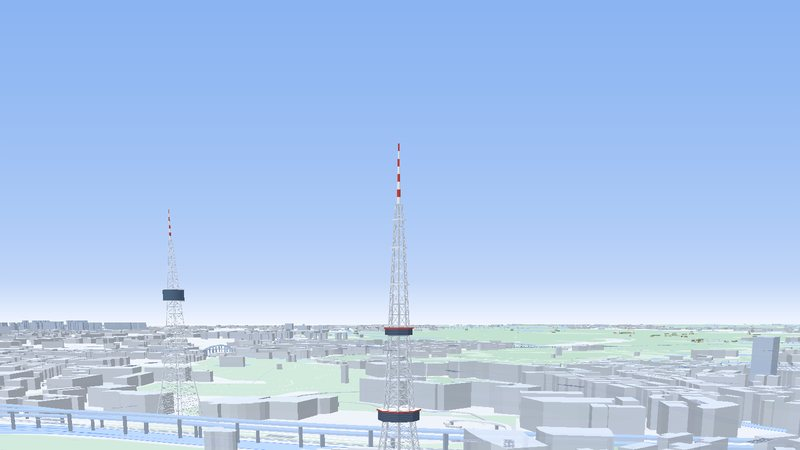
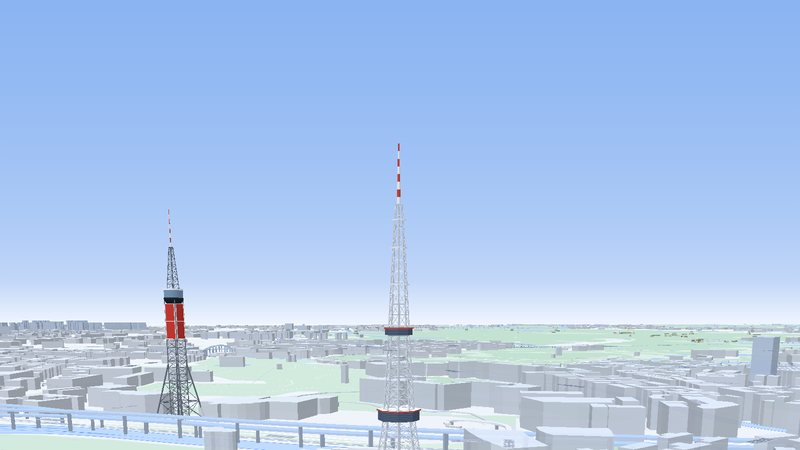
广州电视塔按照片重新建模：张开的四腿、红色广告牌塔身、圆筒观光层
Claude-Session: https://claude.ai/code/session_016HVnGNNWa4PU1gM4ShfCFG

Changed region(s): [[0.1875, 0.5289, 0.25, 0.9333]]

diff --git a/index.html b/index.html
@@ -2483,18 +2483,54 @@ function buildGDTV(THREE, K) {
   return g;
 }
 // ---------------------------------------------------------------- 广州电视塔 (花果山，1991，215.8 m)
-// 四边形钢铁塔，塔腿笔直往上收；约 130 m 处一圈圆形玻璃幕墙的观光层（一直没启用），顶上一段天线。按 OSM 塔基方向摆放
+// 按照片：中间一根等宽的方形钢架塔身从地面直通到 126 m；四根外腿从地面四角（按 OSM 塔基）大幅张开、斜着收到约 60 m 处
+// 和塔身相接，中间有两道横撑。塔身 86–122 m 四面挂着红色广告牌；126 m 处是一个圆筒形的玻璃观光层，下面一圈深色托环；
+// 再往上是一段收窄的方形钢架桅杆（中途一圈小平台），顶上红白天线到 215.8 m。钢架是深灰色的
 function buildGZTV(THREE, K) {
-  const g = new THREE.Group(), add = (geo, m) => g.add(K.mesh(geo, m)), C = [-6030.3, 3564.6];
-  const steel = K.mat(0xe2e6ec, {}, 0.55), red = K.mat(0xd2483c, {}, 0.9), white = K.mat(0xf4f6f9, {}, 0.9);
-  const { mesh } = lattice(THREE, K, C, 4, (-42 * Math.PI) / 180 + Math.PI / 4, [[0, 25], [30, 18], [60, 13], [90, 9.6], [124, 6.6], [150, 4.6], [175, 2.6], [186, 1.6]], 186, 7, steel);
-  g.add(mesh);
-  const hit = new THREE.Mesh(new THREE.CylinderGeometry(3, 16, 215, 4, 1, true), new THREE.MeshBasicMaterial()); hit.position.set(C[0], 107.5, -C[1]); hit.visible = false; g.add(hit);   // invisible, for clicking
-  const cyl = (r, z) => Array.from({ length: 32 }, (_, k) => { const a = (k / 32) * Math.PI * 2; return [C[0] + r * Math.cos(a), C[1] + r * Math.sin(a), z]; });
-  add(K.loft([cyl(10.5, 125), cyl(10.5, 136)], { smooth: true, tw: 3, th: 2.75 }), K.mat({ bg: '#3d5876', v: 8, vc: '#a9bdd4', vw: 2, h: 2, hc: '#6e86a3', hw: 2 }, {}, 1));
-  for (const z of [124.4, 136]) { add(K.loft([cyl(11.2, z), cyl(11.2, z + 0.7)], { smooth: true }), white); add(K.cap(cyl(11.2, z + (z > 130 ? 0.7 : 0))), white); }
-  const mast = []; for (let k = 0; k < 8; k++) { const z0 = 186 + k * 3.725, r = 0.9 - k * 0.08; mast.push([[C[0], C[1], z0], [C[0], C[1], z0 + 3.725], r, k % 2]); }
+  const g = new THREE.Group(), add = (geo, m) => g.add(K.mesh(geo, m)), C = [-6030.3, 3564.6], DS = THREE.DoubleSide;
+  const a = (-42 * Math.PI) / 180, U = [Math.cos(a), Math.sin(a)], V = [-U[1], U[0]];
+  const P = (x, y, z) => [C[0] + U[0] * x + V[0] * y, C[1] + U[1] * x + V[1] * y, z];
+  const steel = K.mat(0x6c7480, {}, 0.45), red = K.mat(0xd2483c, {}, 0.9), white = K.mat(0xf4f6f9, {}, 0.9);
+  const segs = [], SG = [[1, 1], [-1, 1], [-1, -1], [1, -1]];
+  const box = (w, z) => SG.map(([sx, sy]) => P(sx * w, sy * w, z));
+  // a square lattice between two levels: corner columns, a ring at the top, X bracing on each face
+  const bay = (w0, z0, w1, z1, r) => { const A = box(w0, z0), B = box(w1, z1); for (let k = 0; k < 4; k++) { const k1 = (k + 1) % 4; segs.push([A[k], B[k], r], [B[k], B[k1], r * 0.45], [A[k], B[k1], r * 0.3], [A[k1], B[k], r * 0.3]); } };
+  const W = 6.5;
+  for (let z = 0; z < 126; z += 7) bay(W, z, W, Math.min(126, z + 7), 0.5);
+  // four outer legs from the ground corners up to the shaft at 60 m, with two levels of struts
+  const L0 = 17.8, ZJ = 60, leg = (s, z) => { const f = z / ZJ, w = L0 + (W - L0) * f; return P(s[0] * w, s[1] * w, z); };
+  for (const s of SG) {
+    for (let z = 0; z < ZJ; z += 10) segs.push([leg(s, z), leg(s, z + 10), 0.75]);
+    for (const zs of [20, 40]) segs.push([leg(s, zs), P(s[0] * W, s[1] * W, zs), 0.35]);
+  }
+  for (const zs of [20, 40]) for (let k = 0; k < 4; k++) segs.push([leg(SG[k], zs), leg(SG[(k + 1) % 4], zs), 0.3]);
+  for (let k = 0; k < 4; k++) { const s = SG[k], s1 = SG[(k + 1) % 4]; segs.push([leg(s, 0), leg(s1, 20), 0.25], [leg(s1, 0), leg(s, 20), 0.25], [leg(s, 20), leg(s1, 40), 0.22], [leg(s1, 20), leg(s, 40), 0.22]); }
+  // upper mast: tapering square lattice, a small platform, then the red-and-white antenna
+  for (let z = 137; z < 179; z += 5) { const f0 = (z - 137) / 42, f1 = Math.min(1, (z + 5 - 137) / 42); bay(4.2 - 2.8 * f0, z, 4.2 - 2.8 * f1, Math.min(179, z + 5), 0.32); }
+  g.add(K.rods(segs, steel, 5));
+  // advertising boards on all four faces of the shaft
+  const board = K.mat(0xcf3a33, { side: DS }, 1.1), frame = [];
+  for (const [sx, sy] of [[1, 0], [0, 1], [-1, 0], [0, -1]]) {
+    const ox = sx * (W + 0.4), oy = sy * (W + 0.4), tx = -sy, ty = sx, hw = W - 0.6;
+    const r = [P(ox - tx * hw, oy - ty * hw, 86), P(ox + tx * hw, oy + ty * hw, 86)];
+    add(K.loft([r, r.map((p) => [p[0], p[1], 122])], { open: true }), board);
+    // white frames: two stacked panels
+    const e = (s, z) => P(ox * 1.02 + tx * s * hw, oy * 1.02 + ty * s * hw, z);
+    for (const z of [86, 104, 122]) frame.push([e(-1, z), e(1, z), 0.4]);
+    for (const s of [-1, 1]) frame.push([e(s, 86), e(s, 122), 0.4]);
+  }
+  g.add(K.rods(frame, white, 4));
+  // the observation drum: dark supporting ring, a glass cylinder, a pale lid
+  const cyl = (r, z, n = 40) => Array.from({ length: n }, (_, k) => { const t = (k / n) * Math.PI * 2; return [C[0] + r * Math.cos(t), C[1] + r * Math.sin(t), z]; });
+  const dark = K.mat(0x262b33, {}, 0.3);
+  add(K.loft([cyl(7, 122), cyl(9.8, 126)], { smooth: true }), dark); add(K.cap(cyl(7, 122), true), dark);
+  add(K.loft([cyl(9.8, 126), cyl(9.8, 128)], { smooth: true }), dark);
+  add(K.loft([cyl(9.4, 128), cyl(9.4, 135.6)], { smooth: true, tw: 3, th: 2.5 }), K.mat({ bg: '#6f8fae', v: 10, vc: '#b8cbe0', vw: 2, h: 3, hc: '#5a7896', hw: 2 }, {}, 1));
+  add(K.loft([cyl(9.9, 135.6), cyl(9.9, 137)], { smooth: true }), white); add(K.cap(cyl(9.9, 137)), K.mat(0xcfd6df));
+  const ring = cyl(3.2, 165, 16); add(K.cap(ring), white); add(K.loft([cyl(3.2, 164.4, 16), ring], { smooth: true }), white);
+  const mast = []; for (let k = 0; k < 8; k++) { const z0 = 179 + k * 4.6, r = 0.6 - k * 0.05; mast.push([[C[0], C[1], z0], [C[0], C[1], Math.min(215.8, z0 + 4.6)], r, k % 2]); }
   g.add(K.rods(mast.filter((m) => m[3]).map((m) => m.slice(0, 3)), red, 8), K.rods(mast.filter((m) => !m[3]).map((m) => m.slice(0, 3)), white, 8));
+  const hit = new THREE.Mesh(new THREE.CylinderGeometry(3, 18, 215, 4, 1, true), new THREE.MeshBasicMaterial()); hit.position.set(C[0], 107.5, -C[1]); hit.visible = false; g.add(hit);   // invisible, for clicking
   return g;
 }
 // ---------------------------------------------------------------- 花园酒店 (1985，贝聿铭概念设计，司徒惠)
